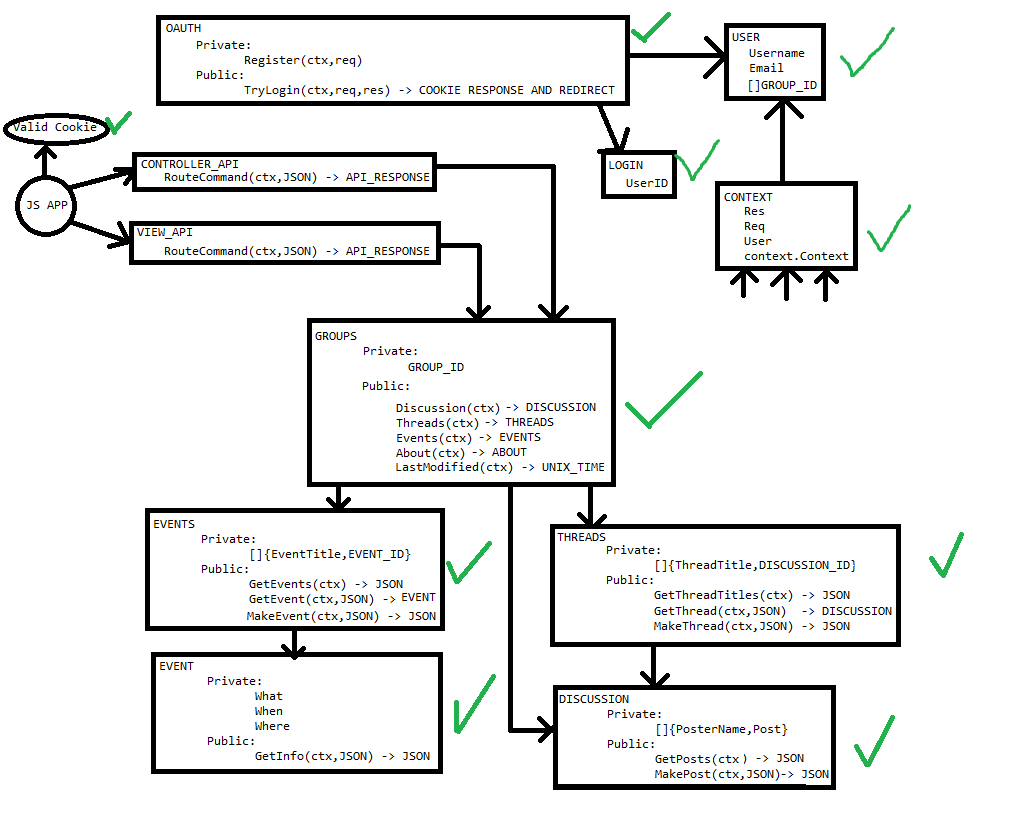
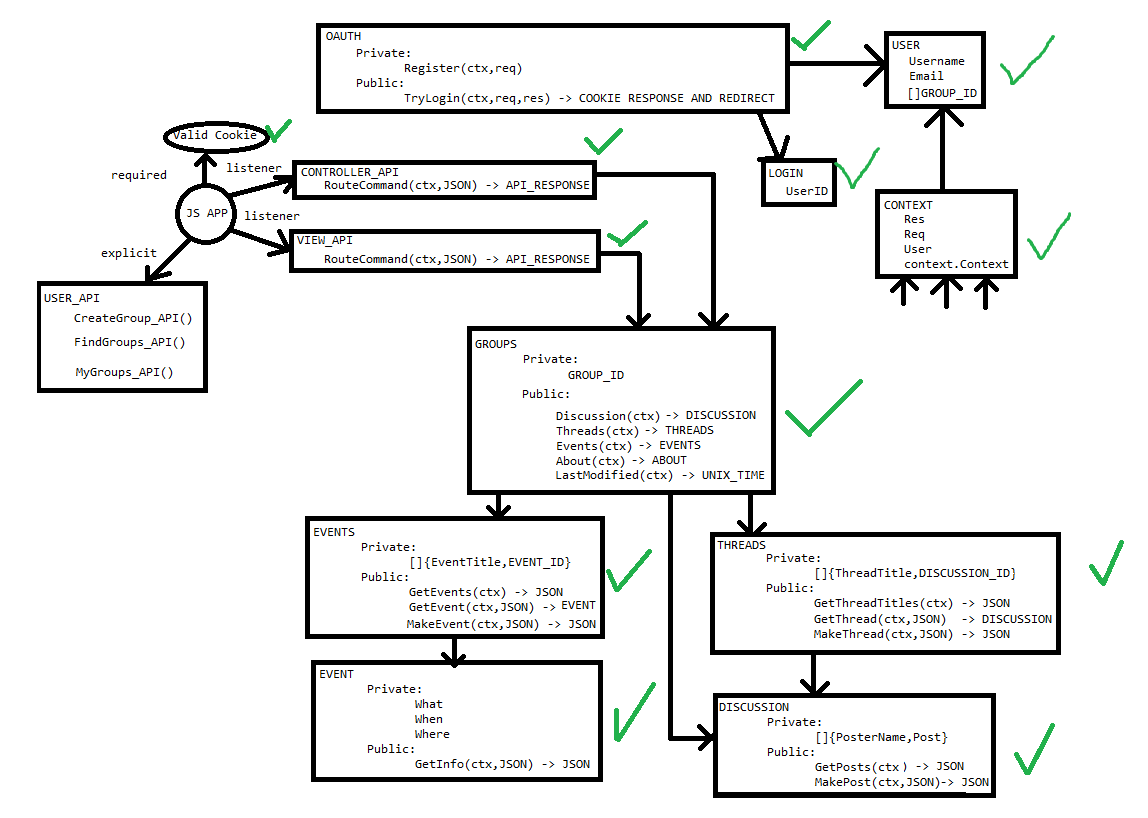
Implemented CONTROLLER and VIEW

Changed region(s): [[0.0, 0.0, 0.9802, 0.978], [0.7352, 0.4584, 0.7658, 0.489]]

diff --git a/CONTROLLER/API.go b/CONTROLLER/API.go
@@ -1,0 +1,30 @@
+package CONTROLLER
+import (
+	"time"
+	"strconv"
+	"github.com/Esseh/retrievable"
+	"github.com/Esseh/hackfresno-2017-dev/CONTEXT"
+	"github.com/Esseh/hackfresno-2017-dev/GROUPS"
+)
+
+func API(ctx CONTEXT.S){
+	g := &GROUPS.S{}
+	id, _ := strconv.ParseInt(ctx.Req.FormValue("groupID"),10,64)
+	retrievable.GetEntity(ctx,id,g)
+	var modified bool
+	switch ctx.Req.FormValue("control") {
+		case "makeEvent":	
+			g.Events(ctx).MakeEvent(ctx)
+			modified = true
+		case "makeThread":
+			g.Threads(ctx).MakeThread(ctx)
+			modified = true
+		case "makePost":
+			g.Threads(ctx).GetThread(ctx).MakePost(ctx)
+			modified = true
+	}
+	if modified {
+		g.LastUpdated = time.Now()
+		retrievable.PlaceEntity(ctx,id,g)
+	}
+}

diff --git a/VIEW/API.go b/VIEW/API.go
@@ -1,0 +1,27 @@
+package VIEW
+import (
+	"strconv"
+	"github.com/Esseh/retrievable"
+	"github.com/Esseh/hackfresno-2017-dev/CONTEXT"
+	"github.com/Esseh/hackfresno-2017-dev/GROUPS"
+)
+
+func API(ctx CONTEXT.S){
+	g := &GROUPS.S{}
+	id, _ := strconv.ParseInt(ctx.Req.FormValue("groupID"),10,64)
+	retrievable.GetEntity(ctx,id,g)
+	switch ctx.Req.FormValue("control") {
+		case "lastModified":	
+			g.LastModified(ctx)
+		case "about":
+			g.GetAbout(ctx)
+		case "events":
+			g.Events(ctx).GetEvents(ctx)
+		case "eventInfo":
+			g.Events(ctx).GetEvent(ctx).GetInfo(ctx)
+		case "threadTitles":
+			g.Threads(ctx).GetThreadTitles(ctx)
+		case "posts":
+			g.Threads(ctx).GetThread(ctx).GetPosts(ctx)
+	}
+}
